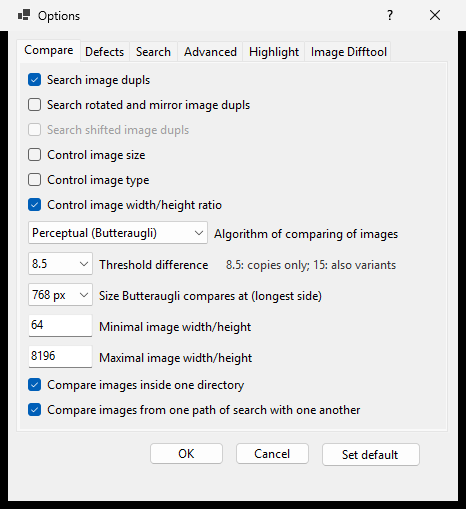
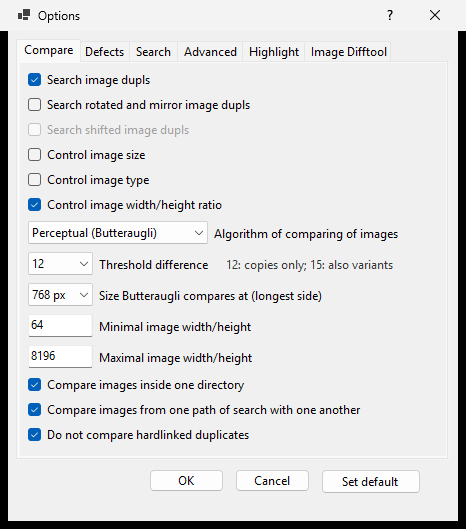
Butteraugli defaults and second thresholds on libjxl's scale
Defaults 7.5 / 9 / 12 / 13 at 384 / 512 / 768 / 1024 px, from the
settings study's four illustrations: midway between the largest score of
a compressed or resized copy and the closest version (at 384 px one pair
of near-identical variants scores below the tiny copies and is let in,
as before). On a user's decided pairs, 12 at 768 px lets through as
many duplicates and as few pairs the user kept apart as 8.5 did with
google/butteraugli.

Second thresholds 11 / 13 / 15 / 16, from the same decided pairs: 15
at 768 px is the last value where the pairs added since the default are
mostly ones the user acted on, and each other size's lets through about
the same pairs.

Help pages, English and Russian: the example values, 1024 px's cost
(whole-search time on the study set: 1.75 times 768 px's; 384 px a
quarter), and the Compare tab's pictures, which also show the
hard-link option now in master.

Checked: ui_threshold_hint_check.ps1 PASS in English, Russian and
German; FAIL on a build with the old values.

diff --git a/docs/data/help/russian/options.html b/docs/data/help/russian/options.html
@@ -77,12 +77,12 @@
 Он может меняться в интервале от 0 до 15 % для алгоритма <b>'Среднеквадратичная разность'</b> и от 0 до 50 % для алгоритмов <b>'SSIM'</b> и <b>'Локальная разность цвета'</b>.
 Для алгоритма <b>'Перцептивная (Butteraugli)'</b> этот параметр - оценка без единицы измерения, от 0 до 50, а <b>не</b> разность между двумя картинками в процентах.
 По умолчанию этот параметр равен 5 % для алгоритма <b>'Среднеквадратичная разность'</b>, 20 % для алгоритма <b>'SSIM'</b> и 4 % для алгоритма <b>'Локальная разность цвета'</b>.
-Для алгоритма <b>'Перцептивная (Butteraugli)'</b> значение по умолчанию меняется в зависимости от параметра <b>Размер для сравнения Butteraugli</b>, а рядом со списком показаны два значения, подходящие для этого размера: например, при 768 px значение 8,5 находит копии и не находит другие версии картинки, а 15 находит копии, пропущенные при 8,5, но и частично другие версии, поэтому такие результаты стоит рассматривать внимательнее.
+Для алгоритма <b>'Перцептивная (Butteraugli)'</b> значение по умолчанию меняется в зависимости от параметра <b>Размер для сравнения Butteraugli</b>, а рядом со списком показаны два значения, подходящие для этого размера: например, при 768 px значение 12 находит копии и не находит другие версии картинки, а 15 находит копии, пропущенные при 12, но и частично другие версии, поэтому такие результаты стоит рассматривать внимательнее.
 Данный параметр продублирован на <a href="index.html?page=toolbar.html" target="_top">панели инструментов</a>.
  </p></li>
  <li><p align="justify">
 <b>Размер для сравнения Butteraugli (длинная сторона)</b> - размер, до которого алгоритм <b>'Перцептивная (Butteraugli)'</b> уменьшает большие картинки перед сравнением.
-При большем размере заметны меньшие различия, но сравнение идет дольше: если взять за основу размер по умолчанию, 768 px, то 1024 px занимает примерно в полтора раза больше времени, а 384 px - примерно вчетверо меньше.
+При большем размере заметны меньшие различия, но сравнение идет дольше: если взять за основу размер по умолчанию, 768 px, то 1024 px занимает почти вдвое больше времени, а 384 px - примерно вчетверо меньше.
 Оценки растут вместе с этим размером, поэтому от него зависят значения порога, указанные рядом со списком.
 Может принимать значения 384, 512, 768 или 1024 px.
 По умолчанию этот параметр равен 768 px.

diff --git a/docs/data/help/english/options.html b/docs/data/help/english/options.html
@@ -78,12 +78,12 @@ Also worth noting that the increase in this parameter leads to a slower speed of
 It can vary in the range from 0 to 15% for algorithm <b>'Mean square difference'</b> and from 0 to 50% for algorithms <b>'SSIM'</b> and <b>'Local colour difference'</b>.
 For algorithm <b>'Perceptual (Butteraugli)'</b> this parameter is a score without a unit, from 0 to 50, <b>not</b> a percent difference between the two images.
 By default, this parameter is equal to 5% for algorithm <b>'Mean square difference'</b>, 20% for algorithm <b>'SSIM'</b> and 4% for algorithm <b>'Local colour difference'</b>.
-For algorithm <b>'Perceptual (Butteraugli)'</b> the default value changes depending on <b>Size Butteraugli compares at</b>, and beside the list are the two values worth using at that size: e.g. at 768 px, 8.5 finds copies and leaves out the other versions of a picture, and 15 finds the copies that 8.5 misses, but also some of those versions, so look at those results more closely.
+For algorithm <b>'Perceptual (Butteraugli)'</b> the default value changes depending on <b>Size Butteraugli compares at</b>, and beside the list are the two values worth using at that size: e.g. at 768 px, 12 finds copies and leaves out the other versions of a picture, and 15 finds the copies that 12 misses, but also some of those versions, so look at those results more closely.
 This parameter is duplicated on the <a href="index.html?page=toolbar.html" target="_top">Tool Bar</a>.
  </p></li>
  <li><p align="justify">
 <b>Size Butteraugli compares at (longest side)</b> - the size to which algorithm <b>'Perceptual (Butteraugli)'</b> reduces larger images before comparing them.
-A larger size sees smaller differences and takes longer: compared with the default of 768 px, 1024 px takes about one and a half times as long, and 384 px about a quarter of the time.
+A larger size sees smaller differences and takes longer: compared with the default of 768 px, 1024 px takes nearly twice as long, and 384 px about a quarter of the time.
 Scores grow with this size, so the threshold values shown beside the list follow it.
 It can be 384, 512, 768 or 1024 px.
 By default, this parameter is equal to 768 px.

diff --git a/src/AntiDupl.NET.WinForms/Form/CoreOptionsForm.cs b/src/AntiDupl.NET.WinForms/Form/CoreOptionsForm.cs
@@ -46,12 +46,12 @@ namespace AntiDupl.NET.WinForms
         // compressed or resized copy and the closest version in test pictures.
         static public int THRESHOLD_DIFFERENCE_MAX_BUTTERAUGLI = 50;
         static private readonly Dictionary<int, double> THRESHOLD_DIFFERENCE_DEFAULT_BUTTERAUGLI =
-            new Dictionary<int, double> { { 384, 5 }, { 512, 6 }, { 768, 8.5 }, { 1024, 9.5 } };
+            new Dictionary<int, double> { { 384, 7.5 }, { 512, 9 }, { 768, 12 }, { 1024, 13 } };
         // The second threshold worth using, shown beside the list: it adds the
         // copies the default misses, and some versions. Above it, on pairs
         // judged by hand, versions outnumber copies.
         static private readonly Dictionary<int, double> THRESHOLD_DIFFERENCE_WIDE_BUTTERAUGLI =
-            new Dictionary<int, double> { { 384, 12 }, { 512, 14 }, { 768, 15 }, { 1024, 16 } };
+            new Dictionary<int, double> { { 384, 11 }, { 512, 13 }, { 768, 15 }, { 1024, 16 } };
 
         /// <summary>The highest threshold the lists offer for an algorithm.</summary>
         static public int ThresholdMax(AlgorithmComparing algorithm)
